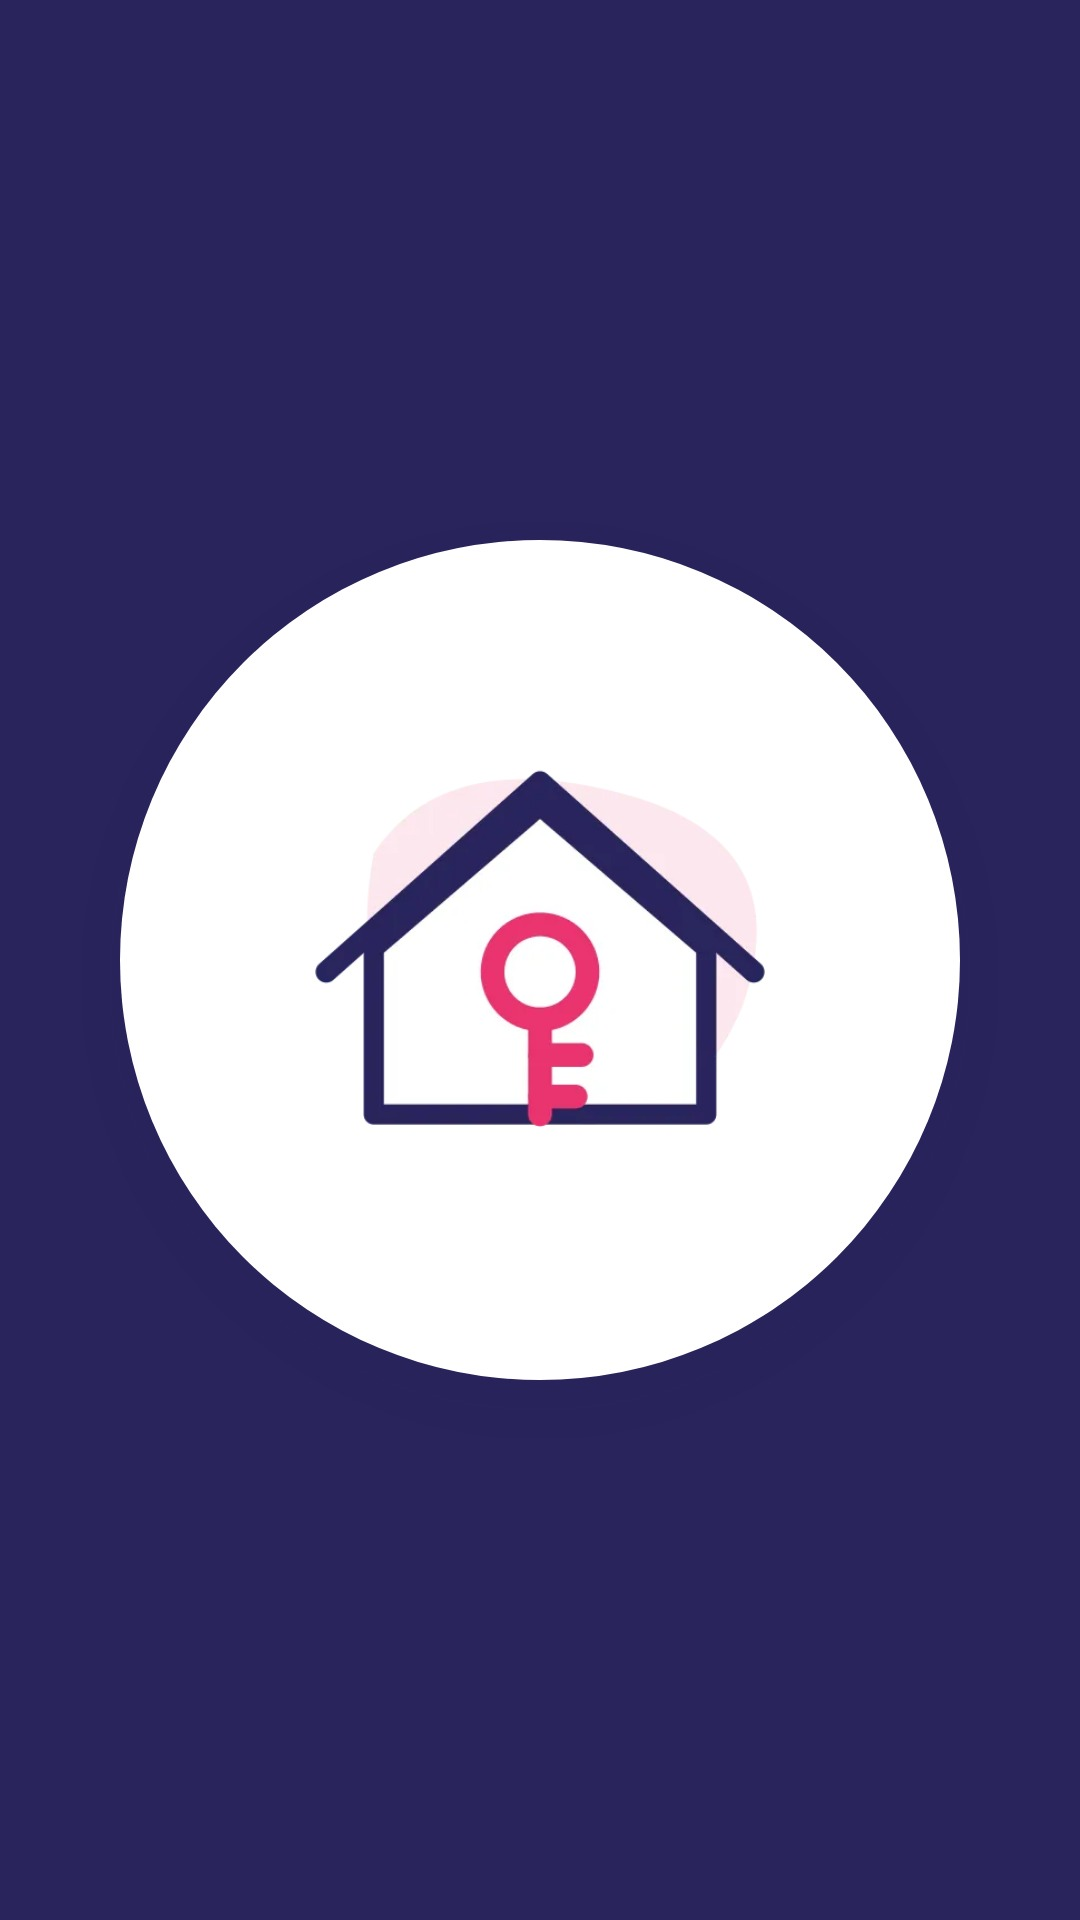
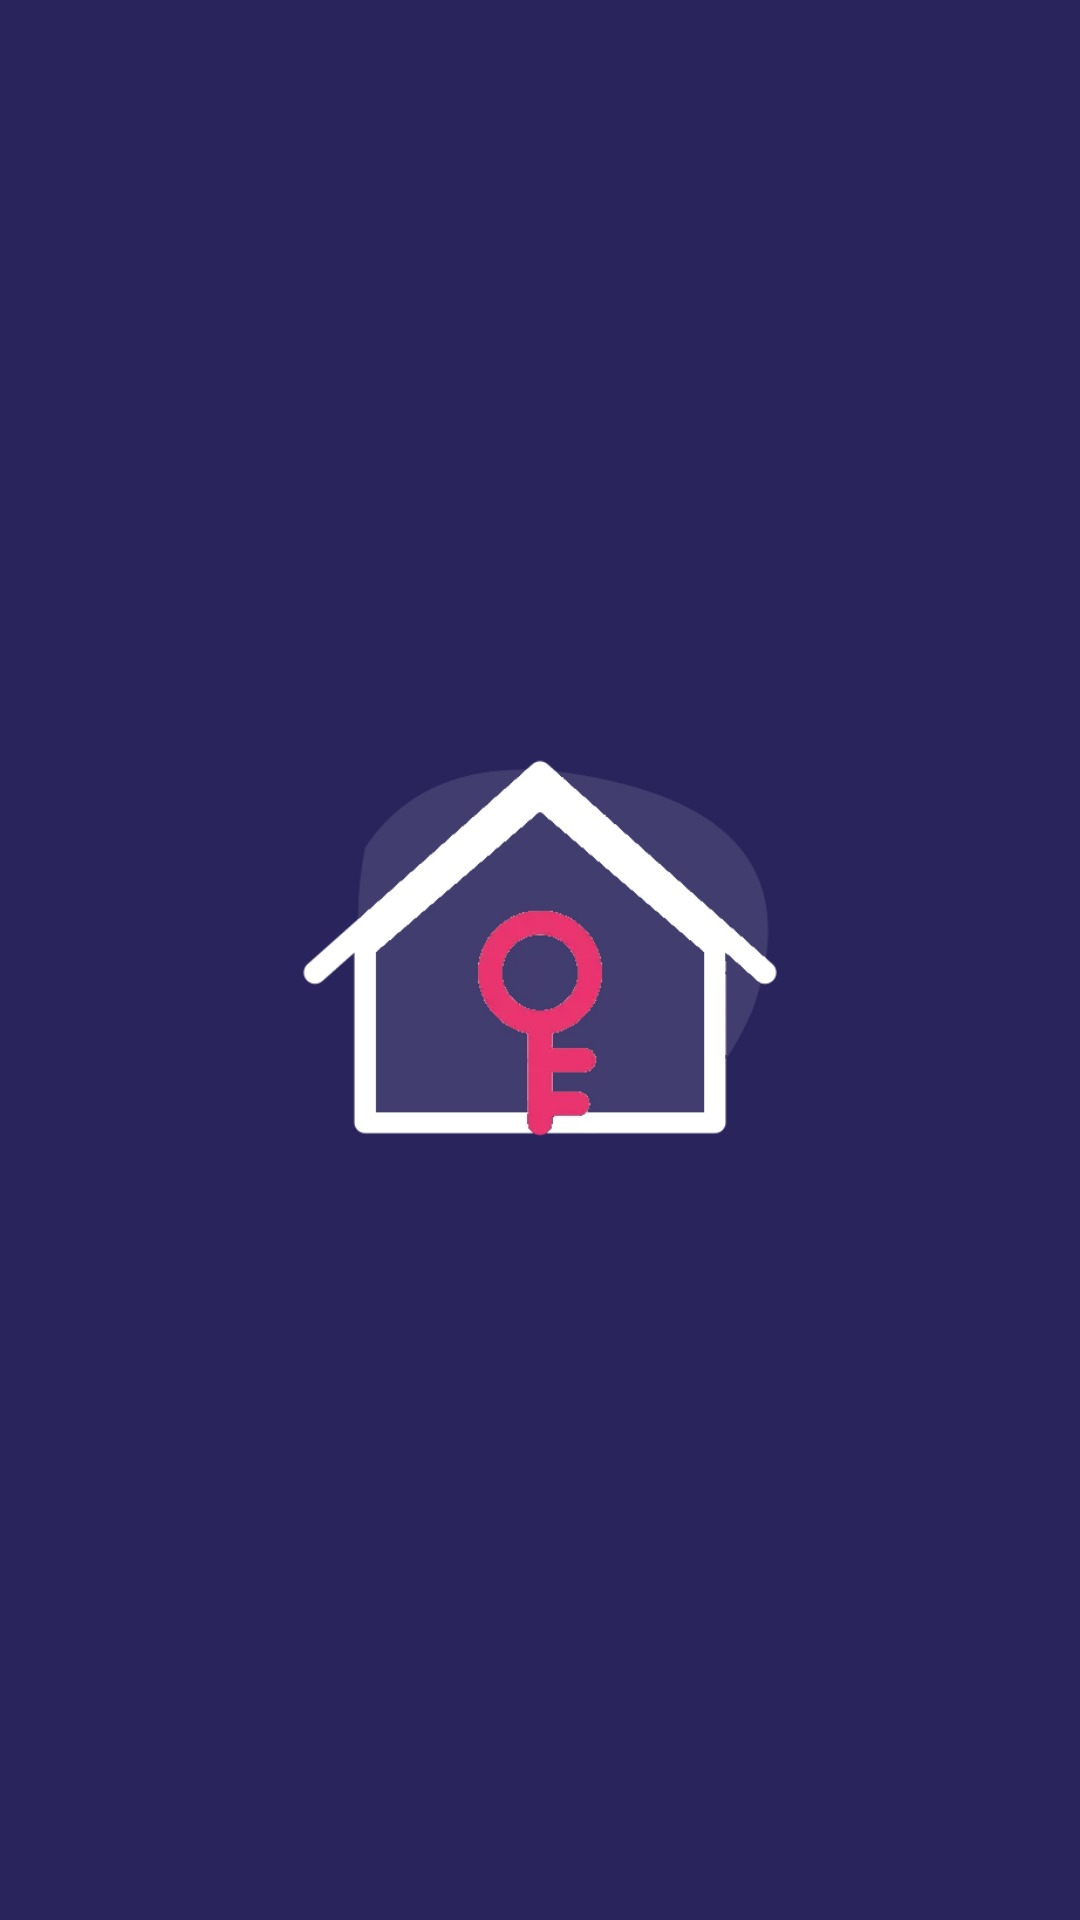
Couvertures à la une : pictos blancs et roses sur fond bleu ; photos pour les stories d'offres
Claude-Session: https://claude.ai/code/session_01NBGakcBRwoq7RKRswmKrSM

Changed region(s): [[0.0917, 0.2812, 0.8861, 0.7188]]

diff --git a/tools/visuels/stories/cover-canada.html b/tools/visuels/stories/cover-canada.html
@@ -1,6 +1,6 @@
-<html><head><link rel=stylesheet href=base.css></head><body><div style="width:1080px;height:1920px;background:#29245c;display:grid;place-items:center"><div style="width:840px;height:840px;border-radius:50%;background:#fff;display:grid;place-items:center;box-shadow:0 20px 50px rgba(41,36,92,.08)">
-<svg width="570" height="570" viewBox="0 0 512 512">
-<path d="M150 120 C 230 40, 400 70, 410 190 C 420 300, 330 430, 220 410 C 110 390, 70 200, 150 120 Z" fill="#fde6ee"/>
-<path d="M256 470 C 256 470 120 330 120 220 A 136 136 0 0 1 392 220 C 392 330 256 470 256 470 Z" fill="none" stroke="#29245c" stroke-width="22" stroke-linejoin="round"/>
+<html><head><link rel=stylesheet href=base.css></head><body><div style="width:1080px;height:1920px;background:#29245c;display:grid;place-items:center">
+<svg width="600" height="600" viewBox="0 0 512 512">
+<path d="M150 120 C 230 40, 400 70, 410 190 C 420 300, 330 430, 220 410 C 110 390, 70 200, 150 120 Z" fill="#ffffff" fill-opacity="0.12"/>
+<path d="M256 470 C 256 470 120 330 120 220 A 136 136 0 0 1 392 220 C 392 330 256 470 256 470 Z" fill="none" stroke="#ffffff" stroke-width="22" stroke-linejoin="round"/>
 <g transform="translate(256 222) scale(2.5) translate(-50 -42)"><path d="M50.0,8.0 L55.5,20.0 L62.0,16.5 L59.5,33.0 L70.0,23.5 L72.0,29.0 L83.0,27.0 L78.0,39.5 L85.0,43.0 L68.5,56.0 L71.0,63.5 L53.5,60.5 L53.5,76.0 L46.5,76.0 L46.5,60.5 L29.0,63.5 L31.5,56.0 L15.0,43.0 L22.0,39.5 L17.0,27.0 L28.0,29.0 L30.0,23.5 L40.5,33.0 L38.0,16.5 L44.5,20.0 Z" fill="#ea346f" stroke="#ea346f" stroke-width="3" stroke-linejoin="round"/></g>
-</svg></div></div></body></html>
+</svg></div></body></html>

diff --git a/tools/visuels/stories/cover-installation.html b/tools/visuels/stories/cover-installation.html
@@ -1,1 +1,1 @@
-<html><head><link rel=stylesheet href=base.css></head><body><div style="width:1080px;height:1920px;background:#29245c;display:grid;place-items:center"><div style="width:840px;height:840px;border-radius:50%;background:#fff;display:grid;place-items:center;box-shadow:0 20px 50px rgba(41,36,92,.08)"><img src="p-logement-installation-4-1.webp" style="width:570px"></div></div></body></html>
+<html><head><link rel=stylesheet href=base.css></head><body><div style="width:1080px;height:1920px;background:#29245c;display:grid;place-items:center"><img src="w-logement-installation-4-1.webp" style="width:600px"></div></body></html>

diff --git a/tools/visuels/stories/cover-permis.html b/tools/visuels/stories/cover-permis.html
@@ -1,1 +1,1 @@
-<html><head><link rel=stylesheet href=base.css></head><body><div style="width:1080px;height:1920px;background:#29245c;display:grid;place-items:center"><div style="width:840px;height:840px;border-radius:50%;background:#fff;display:grid;place-items:center;box-shadow:0 20px 50px rgba(41,36,92,.08)"><img src="p-dossier-immigration-8-1.webp" style="width:570px"></div></div></body></html>
+<html><head><link rel=stylesheet href=base.css></head><body><div style="width:1080px;height:1920px;background:#29245c;display:grid;place-items:center"><img src="w-dossier-immigration-8-1.webp" style="width:600px"></div></body></html>

diff --git a/tools/visuels/stories/cover-confiance.html b/tools/visuels/stories/cover-confiance.html
@@ -1,1 +1,1 @@
-<html><head><link rel=stylesheet href=base.css></head><body><div style="width:1080px;height:1920px;background:#29245c;display:grid;place-items:center"><div style="width:840px;height:840px;border-radius:50%;background:#fff;display:grid;place-items:center;box-shadow:0 20px 50px rgba(41,36,92,.08)"><img src="p-agence-certifiee-6-1.webp" style="width:570px"></div></div></body></html>
+<html><head><link rel=stylesheet href=base.css></head><body><div style="width:1080px;height:1920px;background:#29245c;display:grid;place-items:center"><img src="w-agence-certifiee-6-1.webp" style="width:600px"></div></body></html>

diff --git a/tools/visuels/stories/cover-postuler.html b/tools/visuels/stories/cover-postuler.html
@@ -1,1 +1,1 @@
-<html><head><link rel=stylesheet href=base.css></head><body><div style="width:1080px;height:1920px;background:#29245c;display:grid;place-items:center"><div style="width:840px;height:840px;border-radius:50%;background:#fff;display:grid;place-items:center;box-shadow:0 20px 50px rgba(41,36,92,.08)"><img src="p-candidat-profil-2-1.webp" style="width:570px"></div></div></body></html>
+<html><head><link rel=stylesheet href=base.css></head><body><div style="width:1080px;height:1920px;background:#29245c;display:grid;place-items:center"><img src="w-candidat-profil-2-1.webp" style="width:600px"></div></body></html>

diff --git a/tools/visuels/stories/cover-qui.html b/tools/visuels/stories/cover-qui.html
@@ -1,1 +1,1 @@
-<html><head><link rel=stylesheet href=base.css></head><body><div style="width:1080px;height:1920px;background:#29245c;display:grid;place-items:center"><div style="width:840px;height:840px;border-radius:50%;background:#fff;display:grid;place-items:center;box-shadow:0 20px 50px rgba(41,36,92,.08)"><img src="p-charge-de-projet-1.webp" style="width:570px"></div></div></body></html>
+<html><head><link rel=stylesheet href=base.css></head><body><div style="width:1080px;height:1920px;background:#29245c;display:grid;place-items:center"><img src="w-charge-de-projet-1.webp" style="width:600px"></div></body></html>

diff --git a/tools/visuels/stories/cover-offres.html b/tools/visuels/stories/cover-offres.html
@@ -1,1 +1,1 @@
-<html><head><link rel=stylesheet href=base.css></head><body><div style="width:1080px;height:1920px;background:#29245c;display:grid;place-items:center"><div style="width:840px;height:840px;border-radius:50%;background:#fff;display:grid;place-items:center;box-shadow:0 20px 50px rgba(41,36,92,.08)"><img src="p-le-poste-6-1.webp" style="width:570px"></div></div></body></html>
+<html><head><link rel=stylesheet href=base.css></head><body><div style="width:1080px;height:1920px;background:#29245c;display:grid;place-items:center"><img src="w-le-poste-6-1.webp" style="width:600px"></div></body></html>
